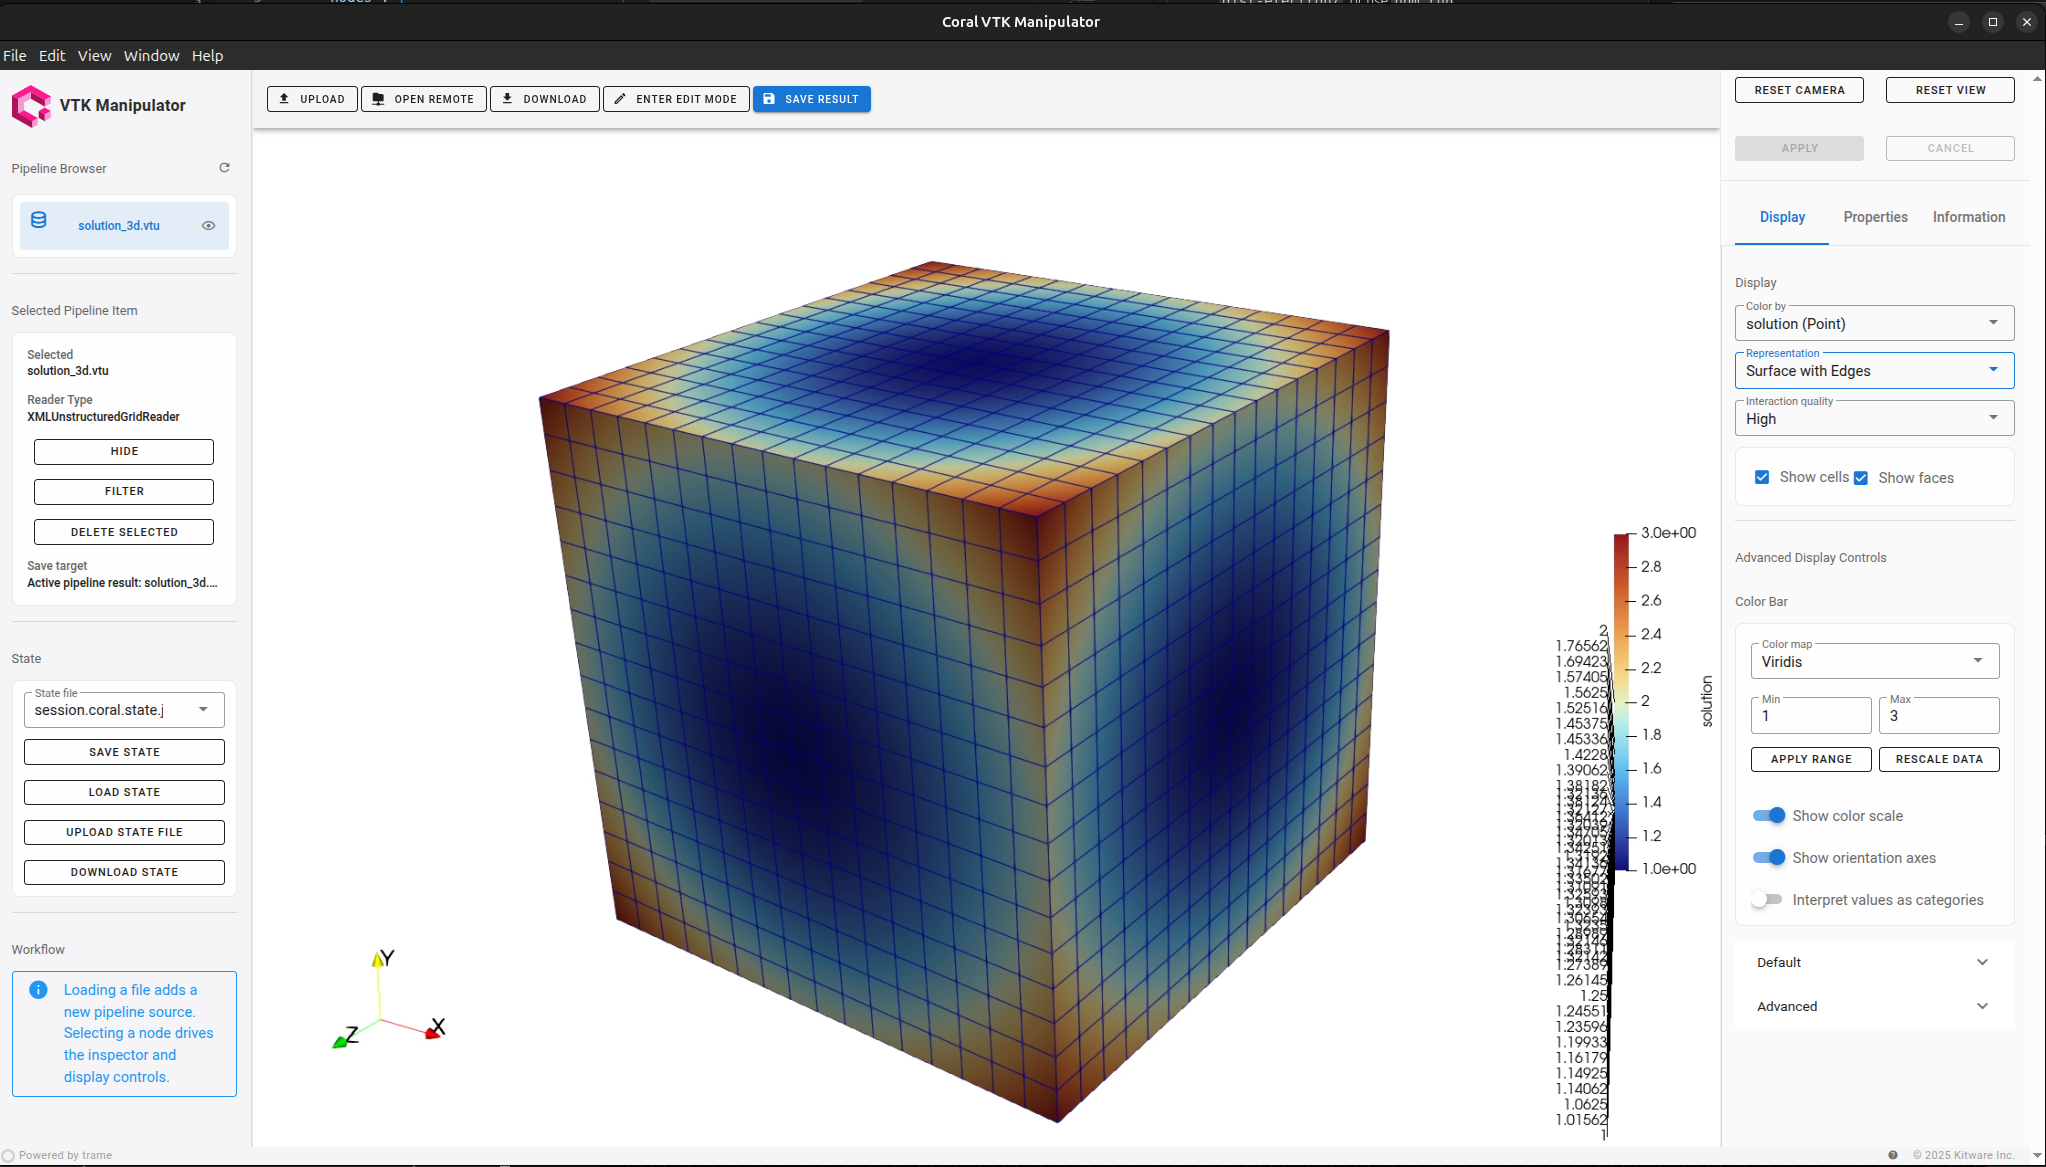
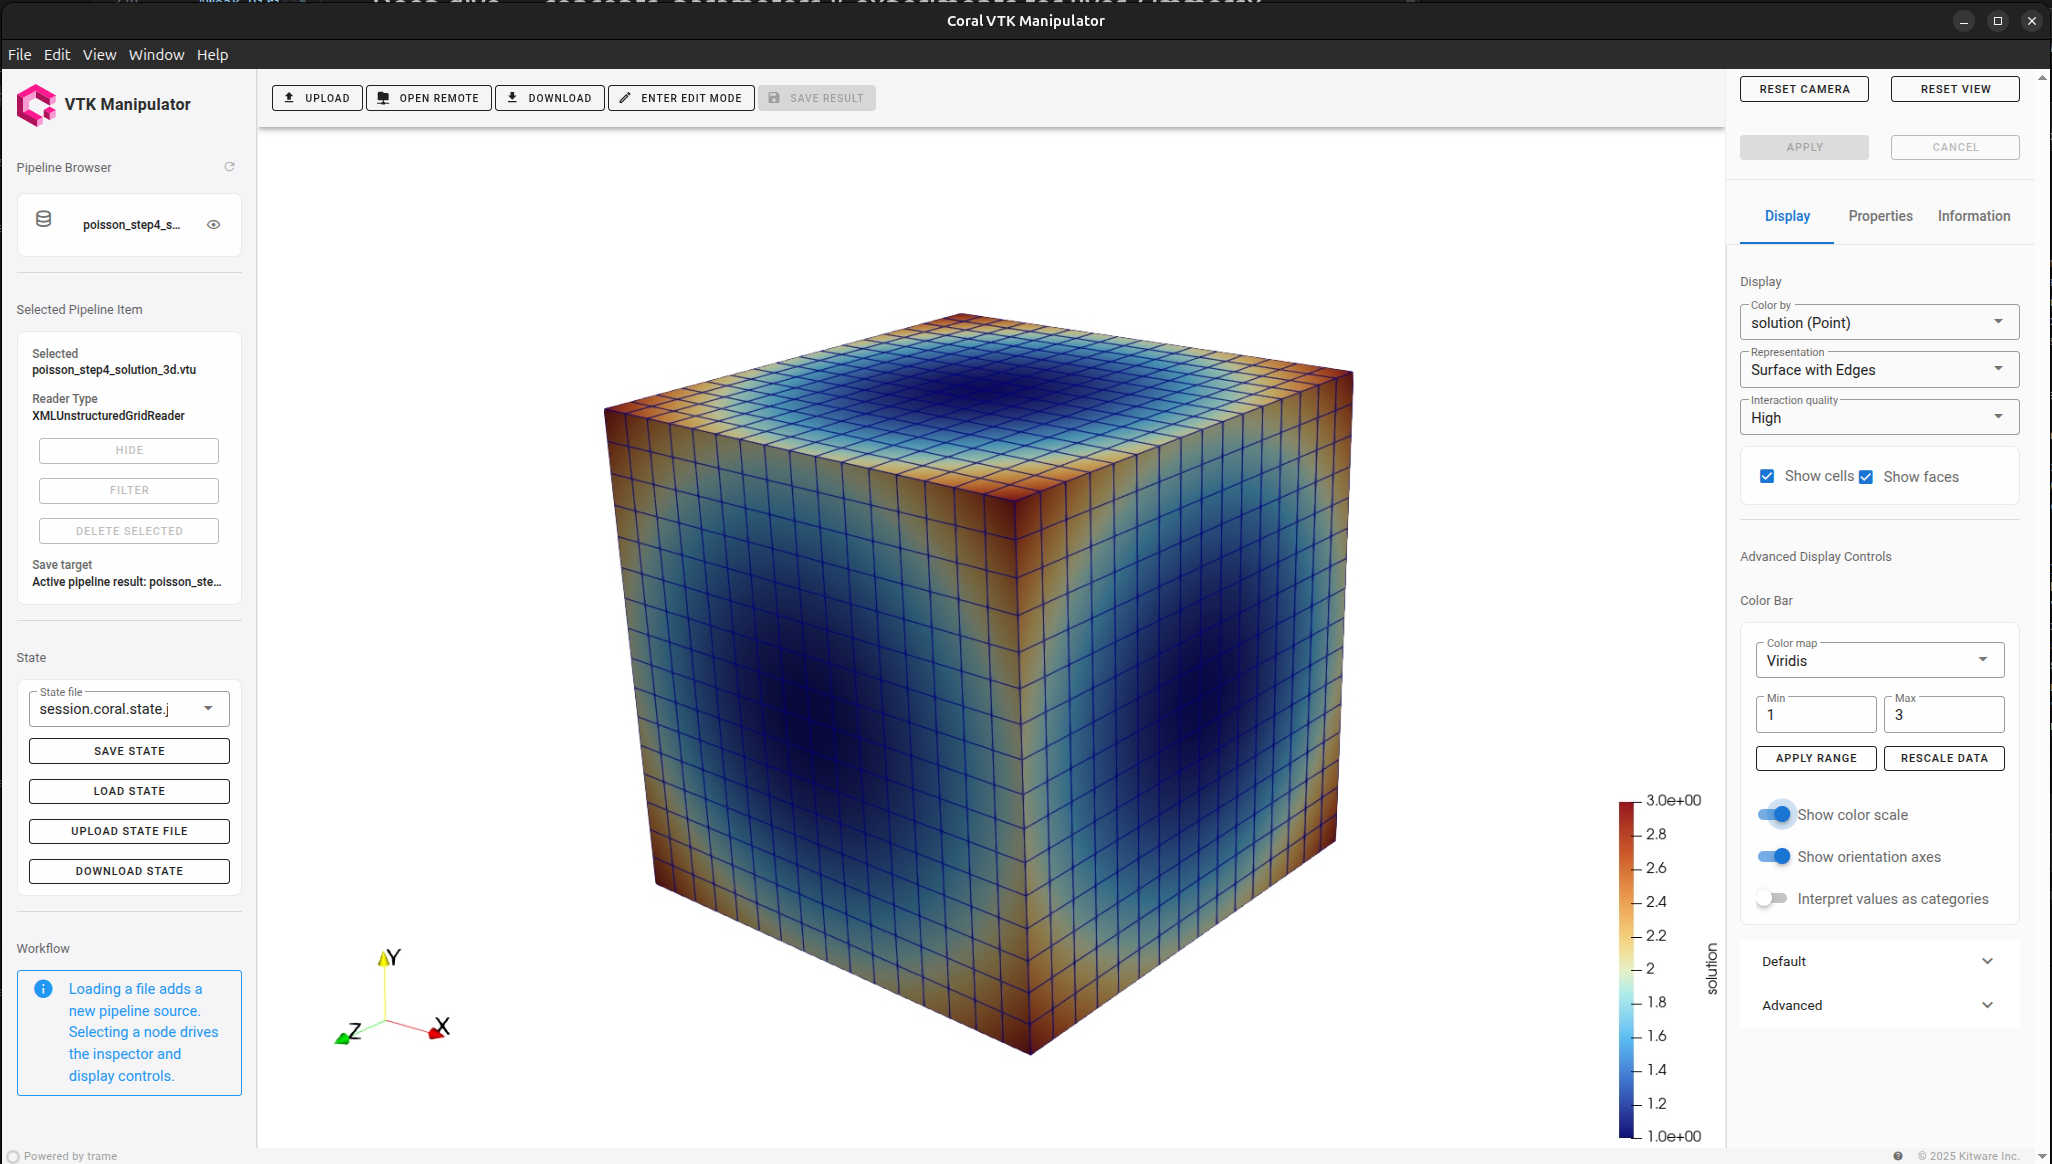
D2.7: rename visualizer to Coral VTK Manipulator, describe mesh tagging, version 0.3

diff --git a/D2.7/D2.7.tex b/D2.7/D2.7.tex
@@ -33,7 +33,7 @@
 \begin{deliverableTable}
     \tableEntry{Deliverable title}{D2.7: Deployment of the PoC platform}
     \tableEntry{Deliverable number}{D2.7}
-    \tableEntry{Deliverable version}{0.1}
+    \tableEntry{Deliverable version}{0.3}
     \tableEntry{Date of delivery}{31/07/2026}
     \tableEntry{Actual date of delivery}{[TBD]}
     \tableEntry{Nature of deliverable}{Report}
@@ -76,10 +76,10 @@
 
 \begin{documentControl}
   \addVersion{0.1}{16/07/2026}{M. Franzon}{Initial draft}
-  \addVersion{0.2}{29/07/2026}{P. Colturi, M. Franzon}{Added the section on
-    testing with the lighthouse applications and early-user feedback; revised
-    the description of the HPC deployment and of the planned orchestration
-    layer; updated the Outlook}
+  \addVersion{0.2}{29/07/2026}{P. Colturi, M. Franzon}{Lighthouse testing;
+    Outlook update}
+  \addVersion{0.3}{30/07/2026}{P. Colturi, M. Franzon}{VTK Manipulator rename;
+    tagging}
 \end{documentControl}
 
 \subsection*{{Approval Details}}
@@ -164,8 +164,9 @@ Fig.~\ref{architecture}:
     \item \textbf{Coral Remote Server}, a REST API server written in Go
         that provides user authentication and collaborative project
         management, backed by an SQLite database.
-    \item \textbf{Coral Visualizer}, a Python web application for the
-        visualization of simulation results in VTK formats, built on the
+    \item \textbf{Coral VTK Manipulator}, a Python web application for the
+        visualization of simulation results in VTK formats and for the
+        tagging of meshes with the identifiers used by deal.II, built on the
         Trame framework with a ParaView-based rendering backend.
 \end{itemize}
 
@@ -186,7 +187,7 @@ Fig.~\ref{architecture}:
 
         % Right column: services
         \node[box, right=2.6cm of canvas] (server) {Coral Remote Server\\ (projects, auth, sharing)};
-        \node[box, right=2.6cm of params] (viz) {Coral Visualizer\\ (VTK / ParaView)};
+        \node[box, right=2.6cm of params] (viz) {Coral VTK Manipulator\\ (VTK / ParaView)};
 
         % Bottom right: execution
         \node[box, right=2.6cm of main, fill=green!7] (coral) {CORAL engine\\ + deal.II backend};
@@ -419,6 +420,7 @@ implementation is deliberately left to the final phase of the project, so
 that it can be shaped by the feedback of the users who will operate it.
 
 \section{\textcolor{EUblue}{Collaborative and visualization services}}
+\label{sec:services}
 
 The collaborative space requirement is served by the Coral Remote Server, a
 lightweight REST service with JWT-based authentication. From the
@@ -433,22 +435,41 @@ rebuilding it.
 \begin{figure}
     \centering
     \figureOrPlaceholder{visualizer-poisson.png}{the Poisson solution
-        produced by the graph of Fig.~\ref{canvas}, rendered in the Coral
-        Visualizer}
-    \caption{Poisson solution in the Coral Visualizer as a result of the
+        produced by the graph of Fig.~\ref{canvas}, rendered in the Coral VTK
+        Manipulator}
+    \caption{Poisson solution in the Coral VTK Manipulator as a result of the
         workflow of Fig.~\ref{canvas}}
     \label{visualizer}
 \end{figure}
 
-Simulation results are inspected through the Coral Visualizer
-(Fig.~\ref{visualizer}), a web-based viewer for VTK/deal.II output formats
-(\texttt{.vtk}, \texttt{.vtu}), reachable directly from the application. During the reporting period the
-visualizer has been substantially extended with a ParaView-based rendering
-backend providing filters, visualization pipelines, solution field
-rendering, cell manipulation and edit sessions, while retaining a
-lightweight VTK backend for local usage. The visualizer has been tested with
-project-relevant datasets, including vascular geometries such as carotid
-artery meshes.
+Simulation results are inspected through the Coral VTK Manipulator
+(Fig.~\ref{visualizer}), a web-based application for VTK/deal.II formats
+(\texttt{.vtk}, \texttt{.vtu}), reachable directly from the desktop
+application. During the reporting period it has been substantially extended
+with a ParaView-based rendering backend providing filters, visualization
+pipelines and solution field rendering.
+
+Beyond inspecting results, the tool has acquired mesh editing capabilities
+that make it useful as a pre-processing step and not only as a
+post-processing one. Within an edit session both volume and surface cells can
+be picked interactively, the selection can be grown according to a feature
+angle, and an integer tag can be assigned to the whole selection. The tags
+are the ones that deal.II reads back from a VTK mesh, \texttt{MaterialID} and
+\texttt{ManifoldID}, and the meaning of the first depends on the dimension of
+the entity it is attached to: on a volume cell the material id identifies the
+material, and therefore the coefficients or the constitutive law used there,
+whereas on a surface cell the same number acts as the boundary indicator to
+which boundary conditions are applied. The manifold id, in turn, associates
+cells and faces with a \emph{Manifold} object describing the exact geometry,
+so that the vertices created when the mesh is refined, and the higher-order
+mappings used in the assembly, follow the true curved geometry instead of the
+piecewise-linear approximation given by the coarse mesh. Tagging a mesh in
+this way therefore defines part of the problem that the simulation will
+solve, and it can be done from the interface without writing any code. The
+tool has been exercised both on the organ-scale meshes targeted by the
+project, such as the brain mesh of Fig.~\ref{brain}, and on reference meshes
+of several million cells used to characterize the performance of the editing
+session.
 
 \section{\textcolor{EUblue}{Testing with the lighthouse applications and
 early-user feedback}}
@@ -469,21 +490,46 @@ editing parameters and pressing run.
 This path has been tested on two of the dealii-X lighthouse applications,
 brain and liver (\texttt{immersx}, elasticity solver), and on the deal.II
 tutorial program step-70, which is included in the repository as a reference
-example of the contract. Output from these runs was inspected through the
-Coral Visualizer; Fig.~\ref{brain} shows results from the brain application.
-Because the contract requires no platform-side development per application,
-support in executable mode is a property of the mechanism rather than of a
-per-application integration effort: the heart (\texttt{lifex},
-\texttt{.prm} input) and lungs (\texttt{exadg}, JSON input) applications
-comply with the same parameter-file convention and are expected to work
-without changes to the platform.
+example of the contract. Because the contract requires no platform-side
+development per application, support in executable mode is a property of the
+mechanism rather than of a per-application integration effort: the heart
+(\texttt{lifex}, \texttt{.prm} input) and lungs (\texttt{exadg}, JSON input)
+applications comply with the same parameter-file convention and are expected
+to work without changes to the platform.
+
+These runs also show that the Coral VTK Manipulator of
+Sec.~\ref{sec:services} is not an accessory to the workflow but one of its
+first stages. The grid is the first input that has to be settled: it is
+prepared and tagged in the manipulator, and its path is then one of the
+entries of the parameter file that the executable reads, alongside the
+physical and numerical parameters. The same tool therefore takes part twice in
+a single simulation, upstream, where tagging the mesh defines the geometry,
+the materials and the boundaries of the problem to be solved, and downstream,
+where the results are inspected once the run has completed;
+Fig.~\ref{brain} shows the brain application at that second stage.
+
+What the tool adds is the combination of the two capabilities in one place.
+Tagging a mesh is well established practice: a mesh generator such as Gmsh
+lets the identifiers be defined together with the geometry, through its
+physical groups, and this is the usual route when a mesh is built from a
+geometric description. That route is not available when the mesh comes from
+elsewhere, as is the case for the organ geometries reconstructed from medical
+images, and the tags then have to be assigned by iterating over the cells with
+geometric predicates, in the application code or in a conversion script, which
+is easy to get wrong and gives no visual confirmation of the result.
+Conversely a ParaView-based backend brings a rich and composable set of
+filters, and the ability to work on datasets larger than a single workstation
+can hold, but it offers no direct way to write a value onto an interactively
+picked selection. Combining the two makes the tags assignable, and immediately
+verifiable, in the same environment in which the mesh is filtered and
+inspected.
 
 \begin{figure}[!htb]
     \centering
     \figureOrPlaceholder{brain.png}{results of the brain lighthouse
-        application rendered in the Coral Visualizer}
+        application rendered in the Coral VTK Manipulator}
     \caption{Results of the brain lighthouse application, inspected in the
-        Coral Visualizer}
+        Coral VTK Manipulator}
     \label{brain}
 \end{figure}
 
@@ -507,10 +553,11 @@ it.
 
 Feedback collected from project partners during the testing phase was
 consistently positive on the central proposition of D2.6, and converged with
-the development team's own findings on the priorities for the final phase,
-in particular MPI support in executable mode, the enrichment of the node
-registries, and the consolidation of pipeline mode described above, which
-originated as a suggestion during this phase.
+the development team's own findings. It concerned both the platform and the
+Coral VTK Manipulator, and ranged from the ergonomics of the tagging workflow
+to the behaviour of the tools on the deployed environments; the improvements
+it calls for are taken up as the activities of the final phase, listed in
+Sec.~\ref{sec:outlook}.
 
 \FloatBarrier
 
@@ -522,7 +569,7 @@ pipeline: tagging a version on the main branch triggers GitHub Actions
 workflows that run the full check and test suite, build the application, and
 attach the installers to a public GitHub release. For evaluation and
 testing, the full server-side stack (CORAL with Slurm and SSH, the remote
-server, and the visualizer) is started with a single
+server, and the VTK manipulator) is started with a single
 \texttt{docker compose up} command.
 
 Six versions have been released during the reporting period, following the
@@ -580,8 +627,14 @@ the project partners during the testing period. The main directions are:
         released, and a short path to edit the parameters of an individual stage of a
         pipeline directly from the orchestrator canvas;
     \item MPI support in executable mode;
-    \item continued improvement of the visualization service and of the
-        no-code user experience for non-expert users.
+    \item improvements to the Coral VTK Manipulator: a clearer visual feedback
+        in the selection and assignment of cells, a more systematic testing of
+        the visualization filters, an assessment of the responsiveness of the
+        editing session on large meshes in the deployed environments, and a
+        verification of the formats in which a tagged grid is best saved for
+        consumption by the applications;
+    \item continued improvement of the no-code user experience for
+        non-expert users.
 \end{itemize}
 
 \begin{figure}
